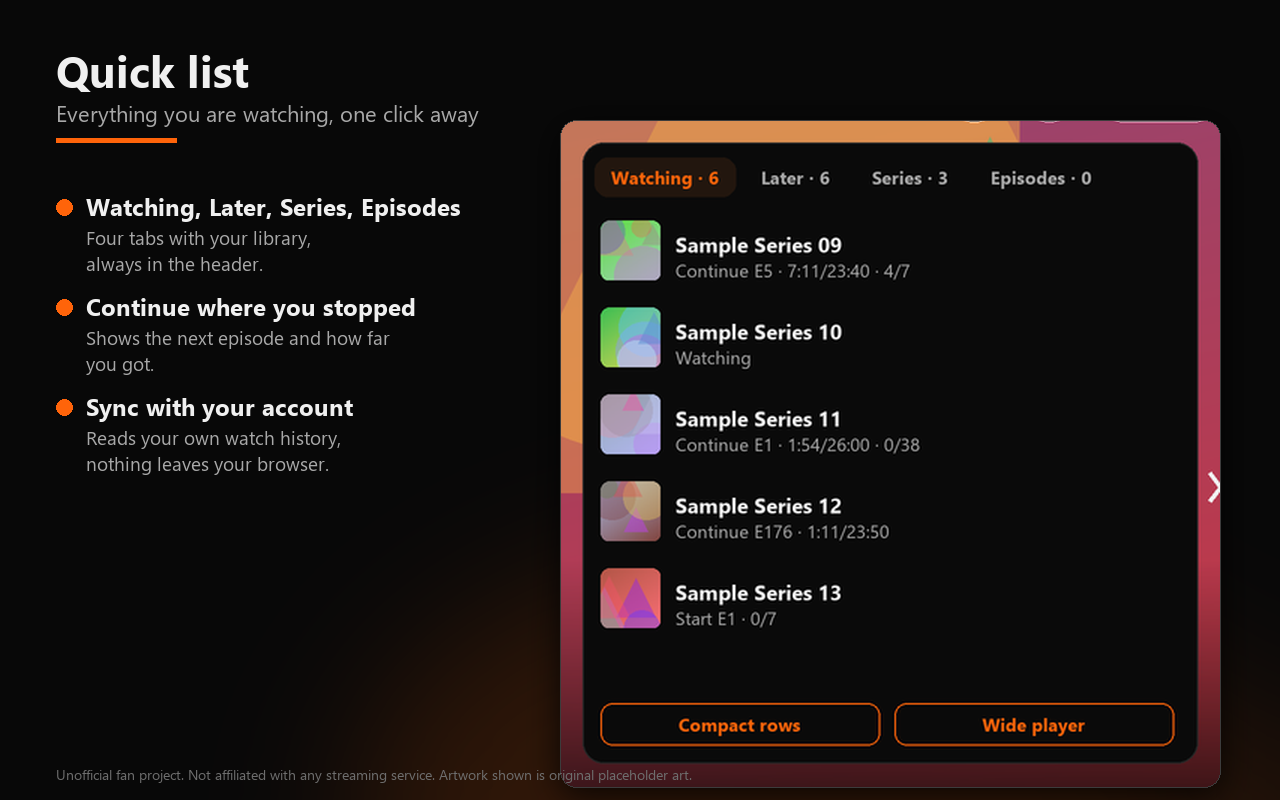
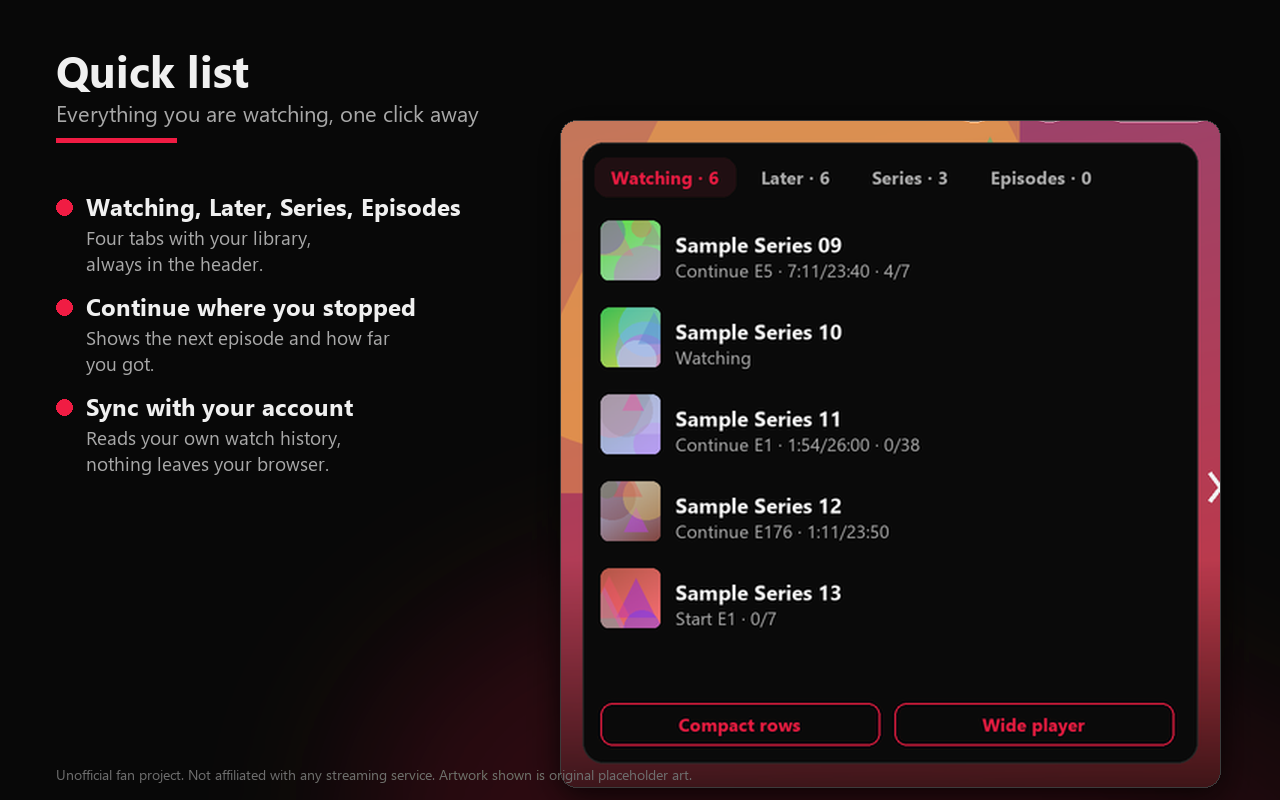
Capturas e imagem promocional da loja no visual RedRat

diff --git a/store/promo-small.html b/store/promo-small.html
@@ -1,0 +1,8 @@
+<!DOCTYPE html>
+<html><head><meta charset="utf-8"><style>
+*{margin:0;box-sizing:border-box}
+body{width:440px;height:280px;background:radial-gradient(ellipse at 50% 125%,#6b0f20 0%,#2a0610 46%,#0b090e 82%);color:#fff;font-family:"Segoe UI",system-ui,sans-serif;padding:34px 32px}
+img{width:104px;height:104px;display:block}
+h1{font-size:40px;font-weight:700;margin-top:24px;line-height:1}
+p{color:#e3c7cd;font-size:17px;margin-top:8px}
+</style></head><body><img src="../public/icons/icon-128.png" alt=""><h1>BOAnimes</h1><p>Your anime library, beautifully organized</p></body></html>
